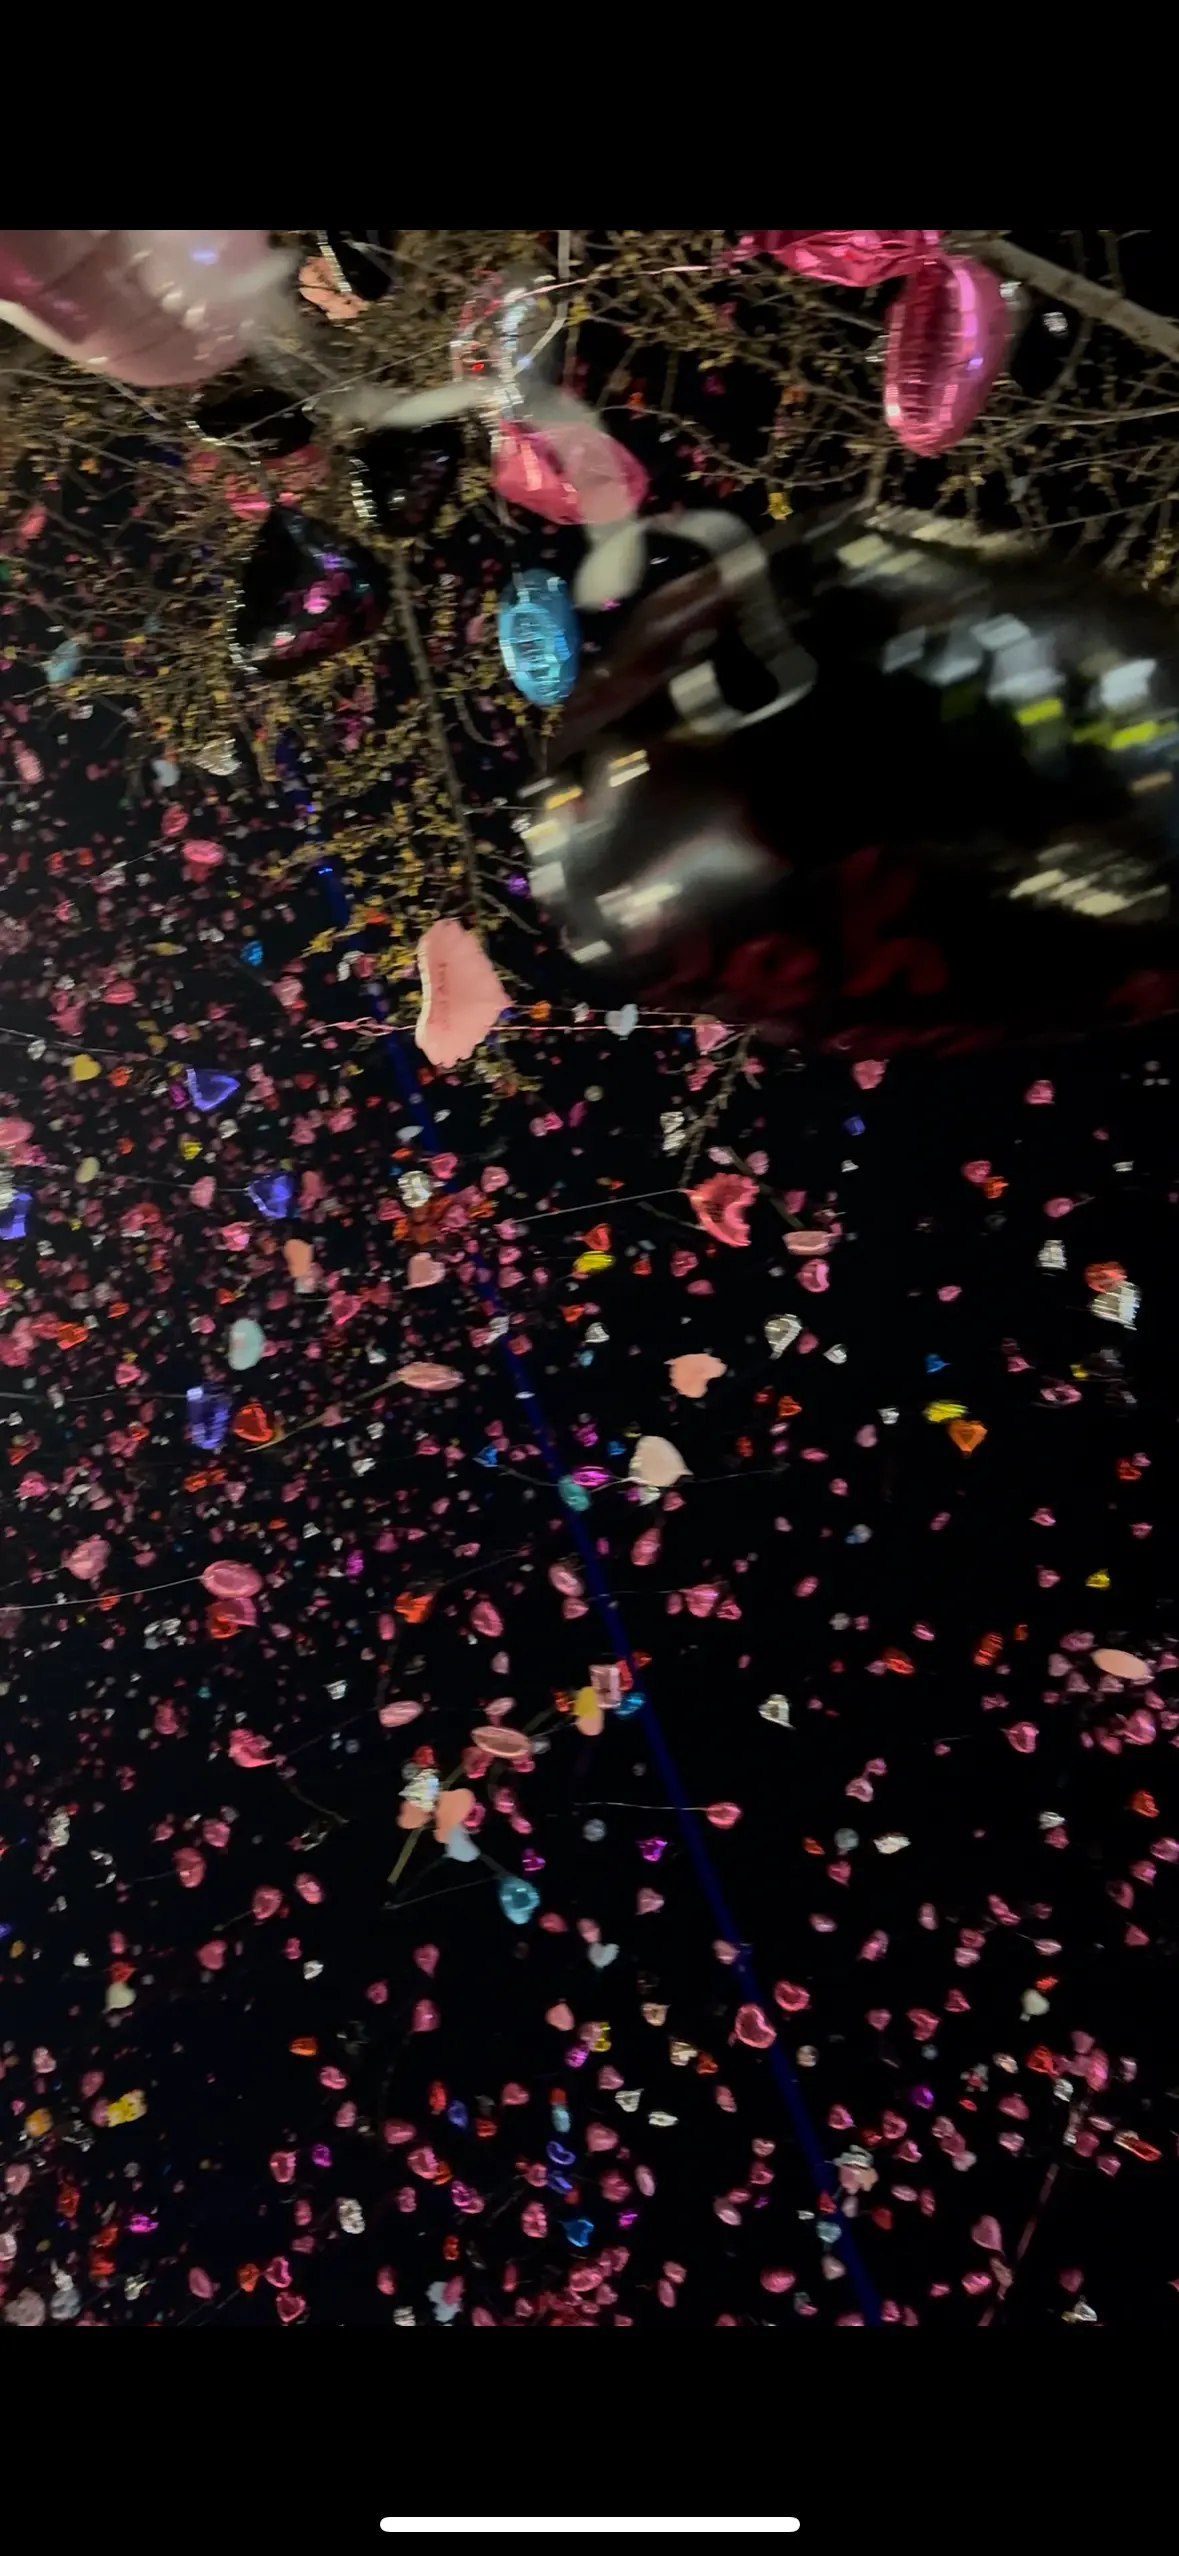
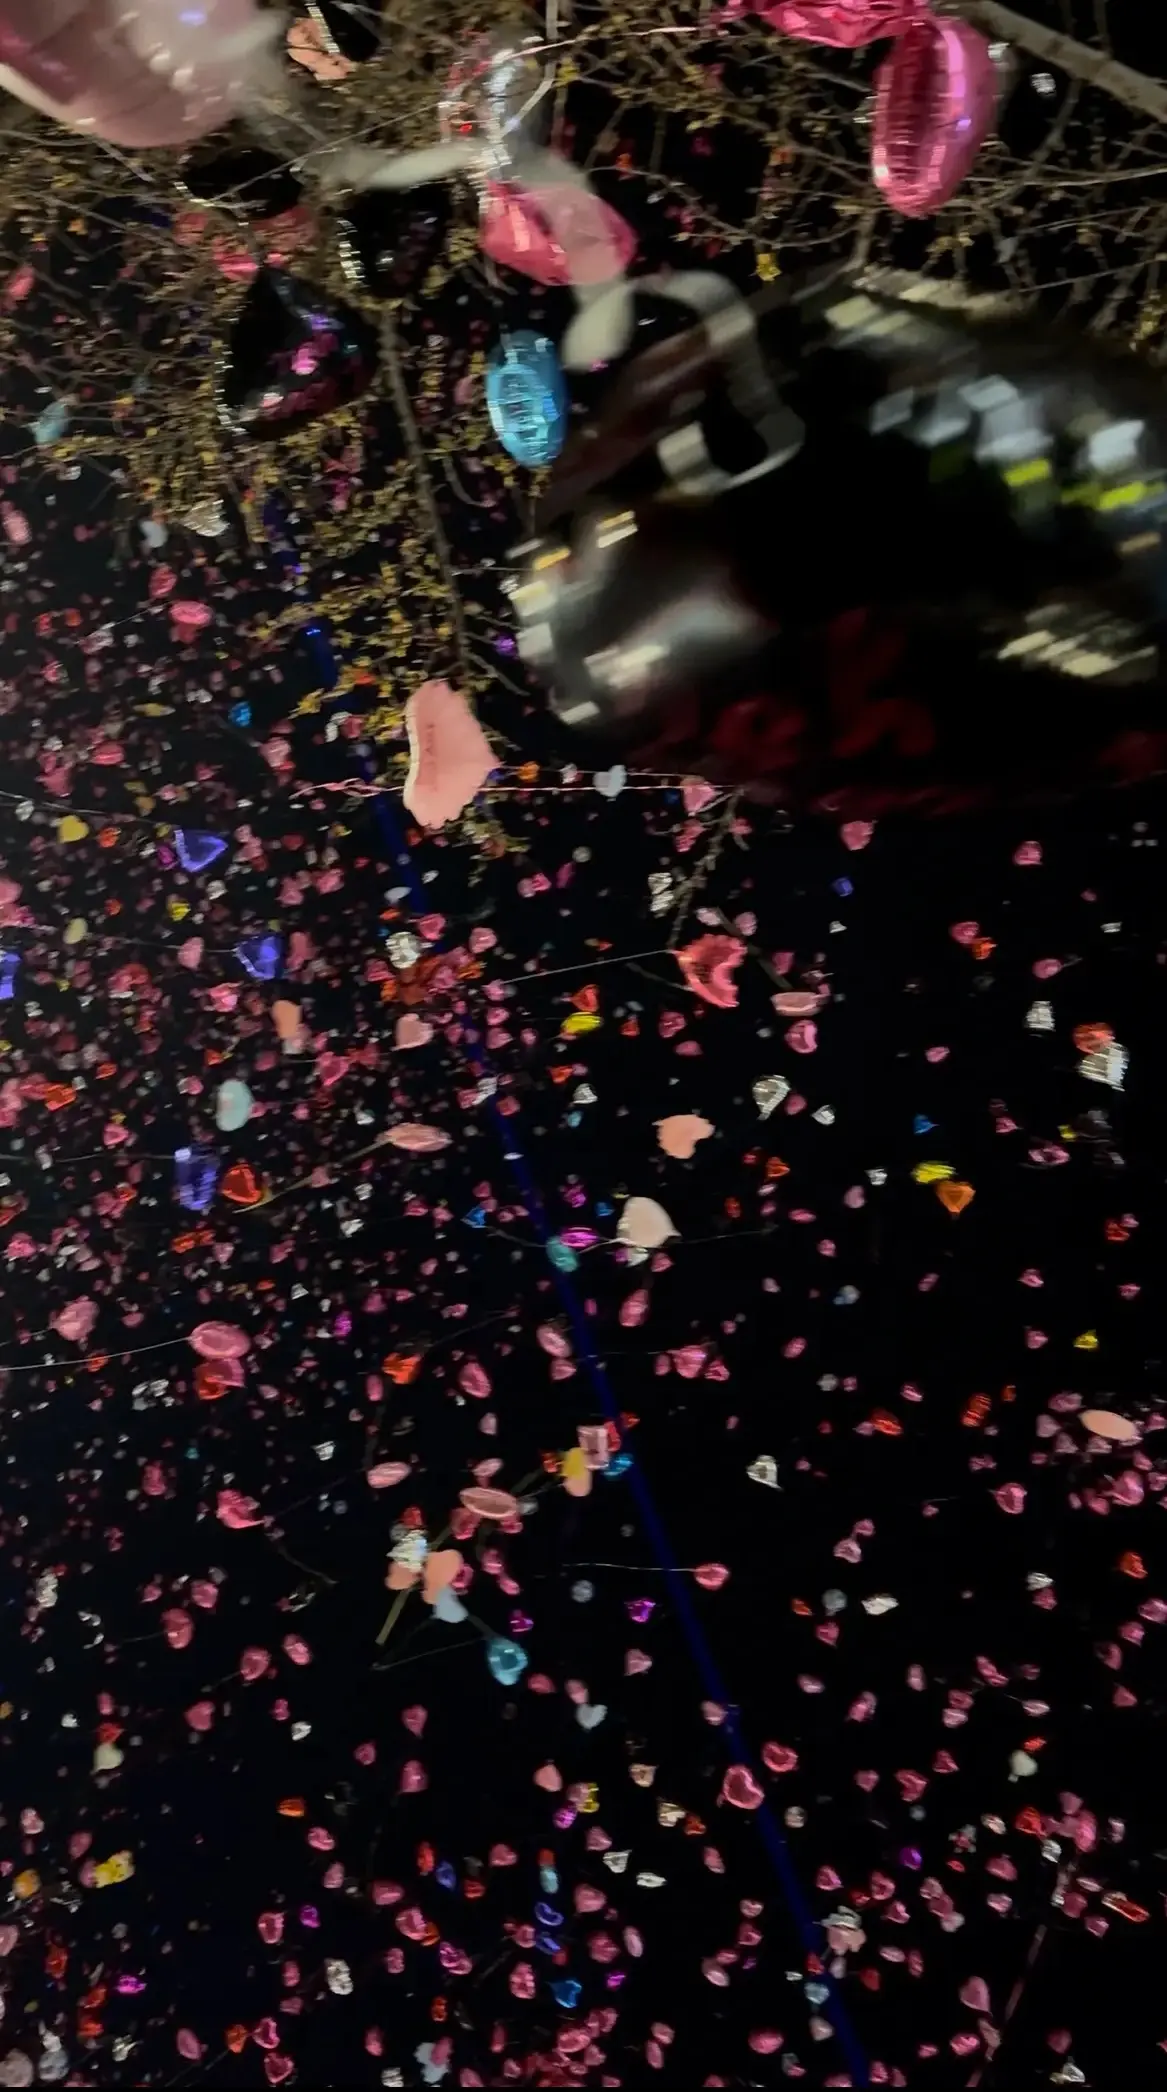
Update description in 2025-01-01.html

diff --git a/pages/2025-01-01.html b/pages/2025-01-01.html
@@ -90,7 +90,7 @@
                         </video>
                     </div>
                     <div class="description">
-                        <p>流光溢彩的酒吧门头。</p>
+                        <p>广角下的人群。</p>
                     </div>
                 </div>
 
